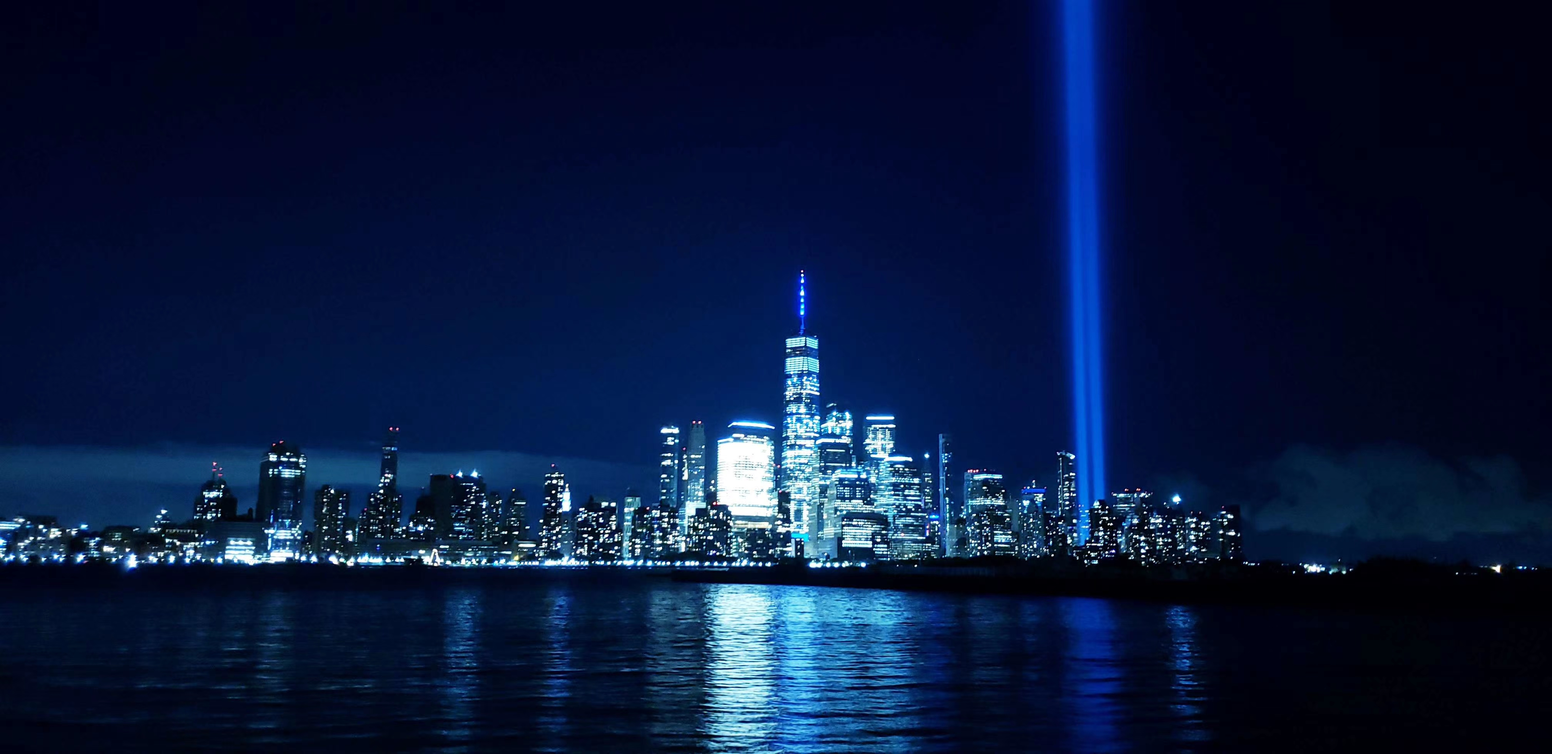
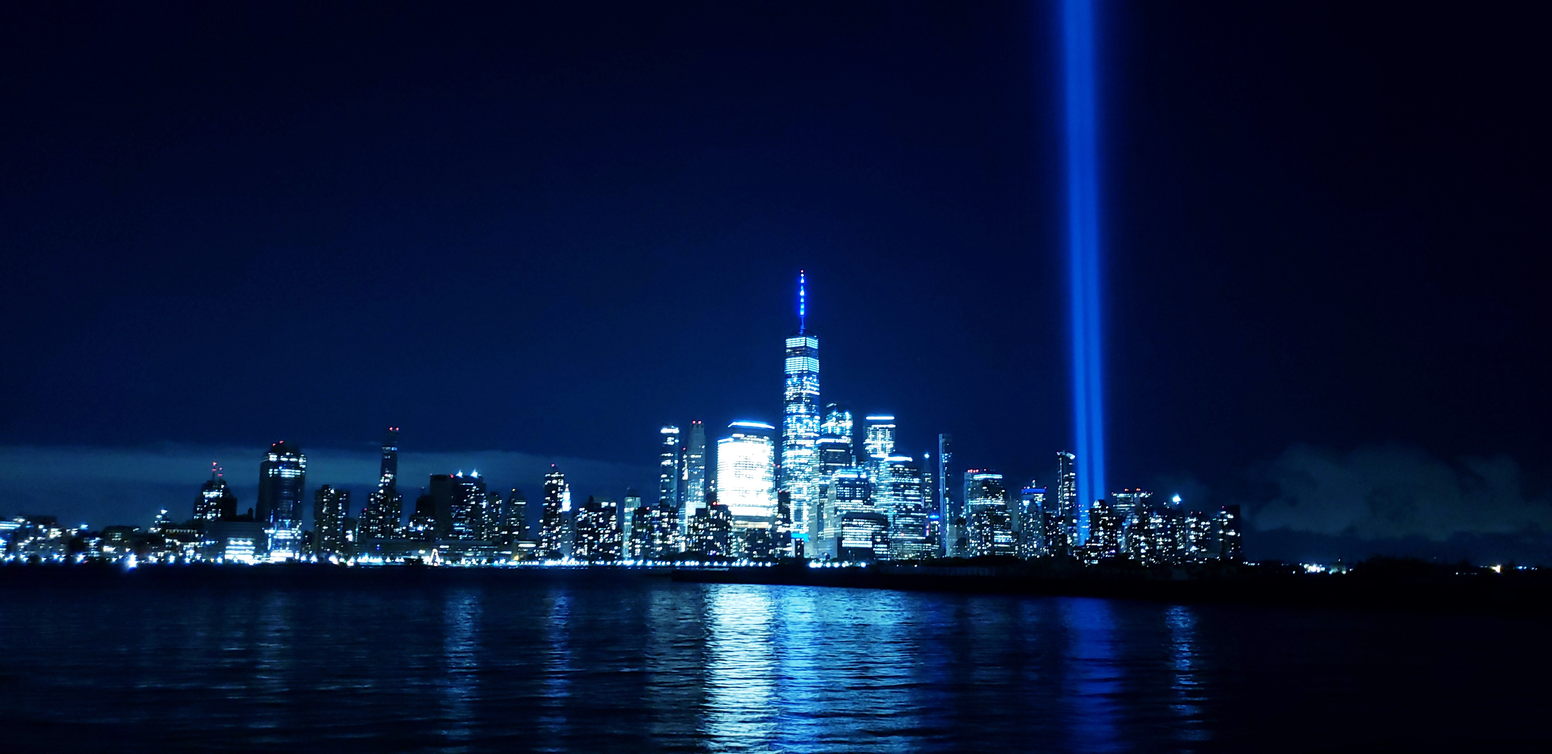
fix manhattan pic

Changed region(s): [[0.5, 0.4668, 0.5938, 0.6536]]

diff --git a/docs/index.html b/docs/index.html
@@ -325,7 +325,7 @@ This Is Bowen
                                     
                                     
                                     
-                                    <img class="card-thumbnail" src="https://www.thisisbowen.com/projects/manhattan/m0_hu089a18f43e1dcc277ca2e59bf9d40d73_1741486_302x0_resize_q75_box.jpg" alt ="m0.jpg">
+                                    <img class="card-thumbnail" src="https://www.thisisbowen.com/projects/manhattan/m0_hue365b1e8404c2c212ad2344d5300399a_1597772_302x0_resize_q75_box.jpg" alt ="m0.jpg">
                                     
                                     
                                 </a>
@@ -474,7 +474,7 @@ This Is Bowen
                     
                     <div class="item owl-height">
                     
-                        <img src="https://www.thisisbowen.com/projects/manhattan/m0_hu089a18f43e1dcc277ca2e59bf9d40d73_1741486_640x0_resize_q75_box.jpg" class="img-responsive" alt="m0.jpg">
+                        <img src="https://www.thisisbowen.com/projects/manhattan/m0_hue365b1e8404c2c212ad2344d5300399a_1597772_640x0_resize_q75_box.jpg" class="img-responsive" alt="m0.jpg">
                     
                     </div>
                     

diff --git a/docs/projects/index.html b/docs/projects/index.html
@@ -212,7 +212,7 @@ Gallery - This is Bowen
                                     
                                     
                                     
-                                    <img src="https://www.thisisbowen.com/projects/manhattan/m0_hu089a18f43e1dcc277ca2e59bf9d40d73_1741486_302x0_resize_q75_box.jpg" alt ="m0.jpg">
+                                    <img src="https://www.thisisbowen.com/projects/manhattan/m0_hue365b1e8404c2c212ad2344d5300399a_1597772_302x0_resize_q75_box.jpg" alt ="m0.jpg">
                                     
                                     
                                 </a>

diff --git a/docs/projects/manhattan/index.html b/docs/projects/manhattan/index.html
@@ -168,7 +168,7 @@ Manhattan - This is Bowen
                     
                     <div class="item owl-height">
                     
-                        <img src="/projects/manhattan/m0_hu089a18f43e1dcc277ca2e59bf9d40d73_1741486_1000x0_resize_q75_box.jpg" class="img-responsive" alt="m0.jpg">
+                        <img src="/projects/manhattan/m0_hue365b1e8404c2c212ad2344d5300399a_1597772_1000x0_resize_q75_box.jpg" class="img-responsive" alt="m0.jpg">
                     
                     </div>
                     
